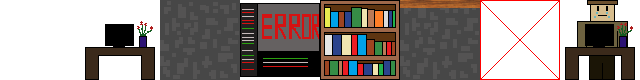
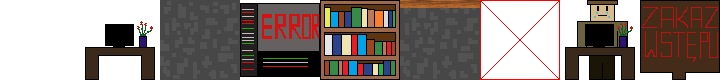
added tile

diff --git a/game/game/game.cpp b/game/game/game.cpp
@@ -213,7 +213,7 @@ void Game::prepare_game(std::unique_ptr<Engine> &engine)
 	ac_index = 0;
 	for (i = 0; i < (int) screen_y; i++) {
 		for (j = 0; j < (int) screen_x; j++) {
-			skin = std::make_shared<TextureSkin>(*tiles, 8, 1);
+			skin = std::make_shared<TextureSkin>(*tiles, 9, 1);
 
 			tile_sprite = std::make_shared<TileSprite>
 						(skin, Rect(0, 0, 1280, 720), BA_NONE);
@@ -270,17 +270,21 @@ void Game::prepare_game(std::unique_ptr<Engine> &engine)
 	engine->add_sprite(player_sprite);
 
 	/* Restrict area. */
-	for (i = map_height-1; i >= 0; i--) {
+	for (i = 0; i < map_height; i++) {
 		if (map[i][9] != BLOCK_CONCRETE &&
 		    map[i][9] != BLOCK_FLOOR) {
 			map[i][9] = BLOCK_FORBIDDEN;
+		} else if (map[i][9] == BLOCK_FLOOR) {
+			map[i-1][9] = BLOCK_STOP;
 		}
 	}
 
-	for (i = map_height-1; i >= 0; i--) {
+	for (i = 0; i < map_height; i++) {
 		if (map[i][91] != BLOCK_CONCRETE &&
 		    map[i][91] != BLOCK_FLOOR) {
 			map[i][91] = BLOCK_FORBIDDEN;
+		} else if (map[i][91] == BLOCK_FLOOR) {
+			map[i-1][91] = BLOCK_STOP;
 		}
 	}
 

diff --git a/game/game/tile_data.cpp b/game/game/tile_data.cpp
@@ -39,5 +39,9 @@ std::unique_ptr<tile_data_t[]> load_tile_data(void)
 	tile_data[7].shift_x = 0;
 	tile_data[7].shift_y = 0;
 
+	tile_data[8].hard = 1;
+	tile_data[8].shift_x = 0;
+	tile_data[8].shift_y = 0;
+
 	return tile_data;
 }

diff --git a/game/game/block_codes.h b/game/game/block_codes.h
@@ -9,5 +9,6 @@
 #define BLOCK_FLOOR	((uint8_t) 5)
 #define BLOCK_FORBIDDEN	((uint8_t) 6)
 #define BLOCK_STUDENT ((uint8_t) 7)
+#define BLOCK_STOP ((uint8_t) 8)
 
 #endif /* BLOCK_CODES_H_ */
